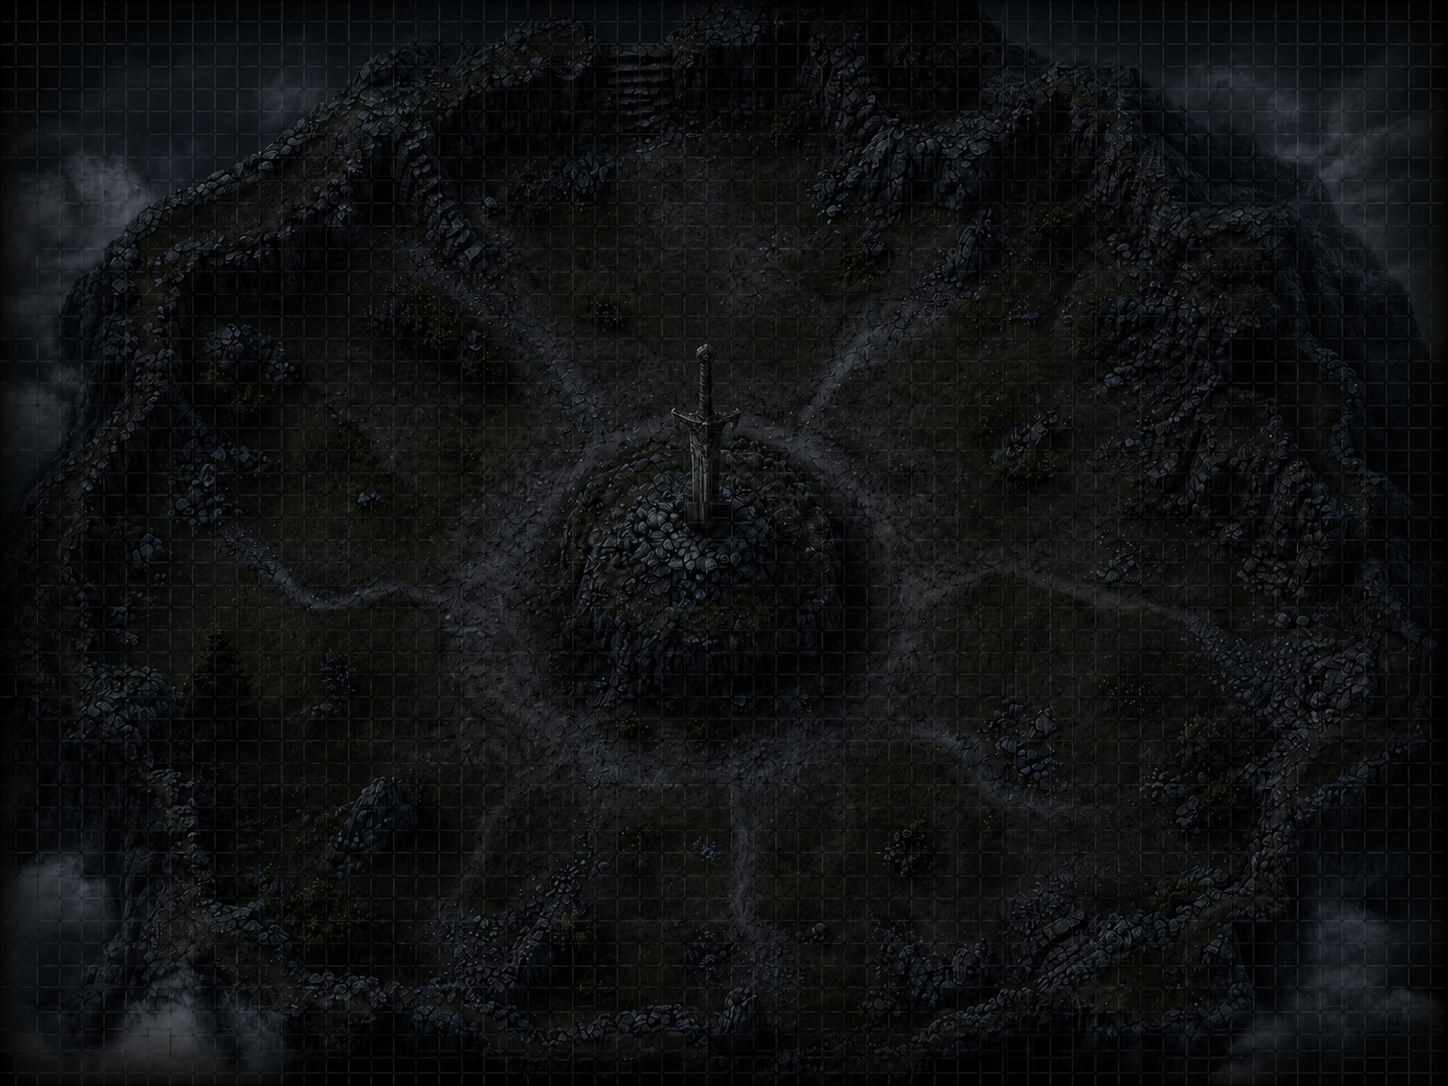
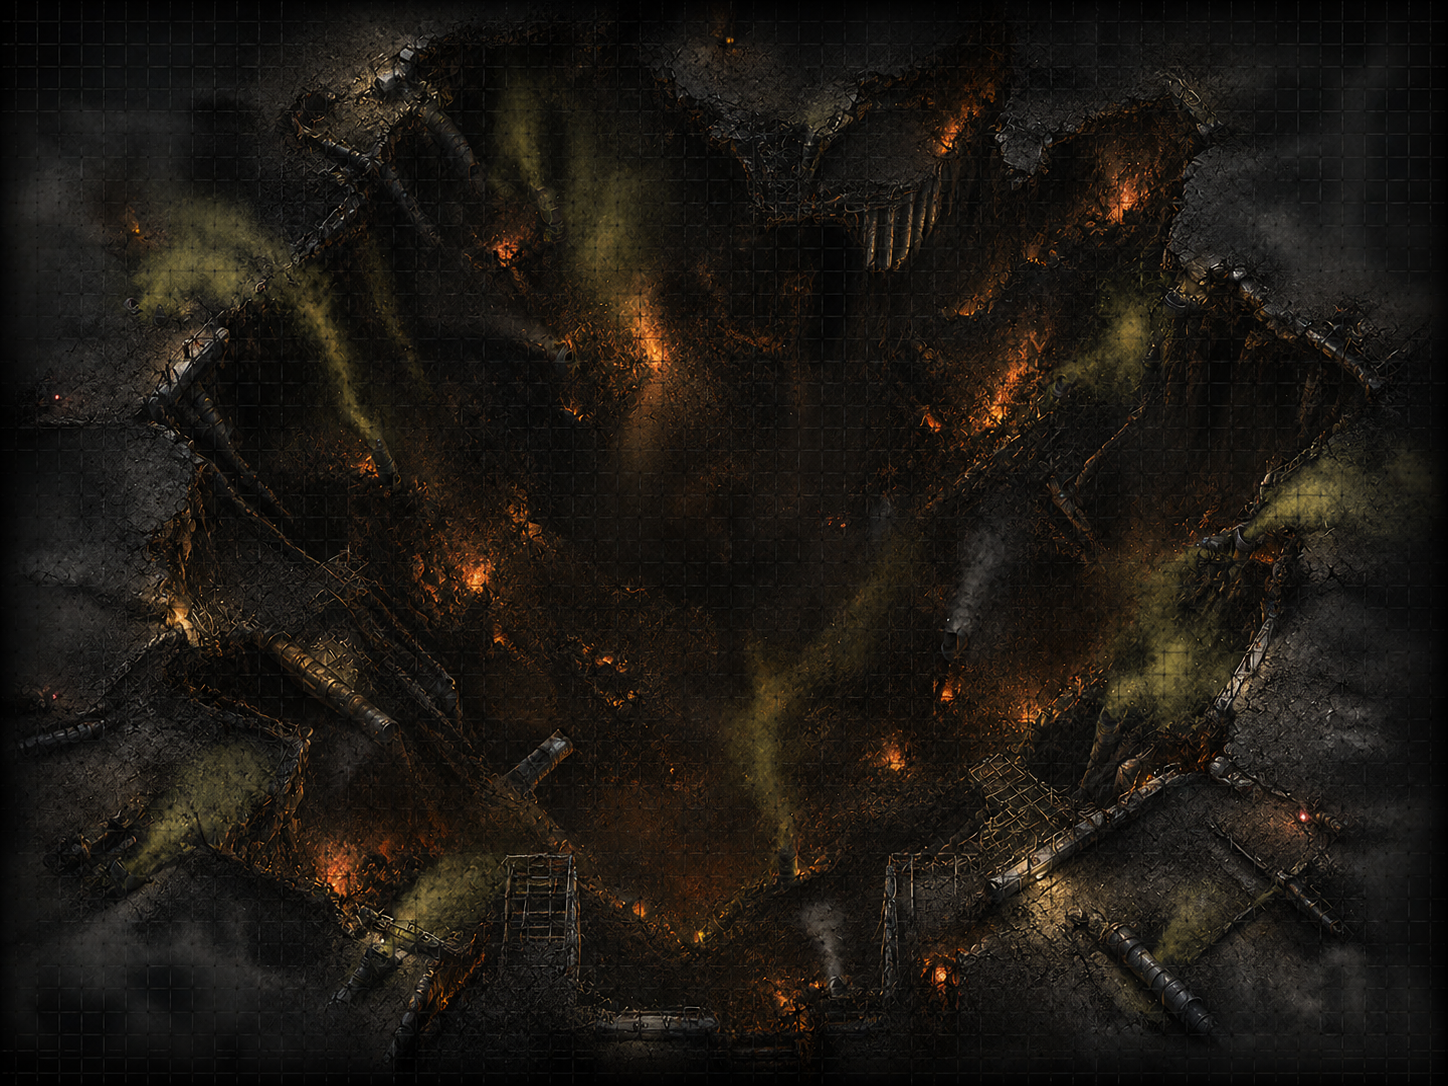
Conclusão de visualização ou não para jogadores

Changed region(s): [[0.0, 0.0, 0.9945, 1.0]]

diff --git a/src/components/menuSession/battle.tsx b/src/components/menuSession/battle.tsx
@@ -2,7 +2,7 @@
 
 import contexto from "@/context/context";
 import Image from "next/image";
-import { useContext, useRef, useState } from "react";
+import { useContext, useEffect, useRef, useState } from "react";
 import type { ElementType, MouseEvent, PointerEvent, WheelEvent } from "react";
 import { IoIosCloseCircleOutline } from "react-icons/io";
 
@@ -35,6 +35,8 @@ import {
   FaShieldAlt,
   FaStore,
   FaLandmark,
+  FaEye,
+  FaEyeSlash,
 } from "react-icons/fa";
 import { updateSession } from "@/firebase/sessions";
 
@@ -353,6 +355,8 @@ export default function Battle() {
   } = useContext(contexto);
 
   const isGameMaster = session?.gameMaster === email;
+  const isBattleVisibleToPlayers =
+    session?.battle?.isVisibleToPlayers === true;
 
   const imageWrapperRef = useRef<HTMLDivElement | null>(null);
   const markerDragStateRef = useRef<MarkerDragState | null>(null);
@@ -406,6 +410,24 @@ export default function Battle() {
   const [draggedMarker, setDraggedMarker] =
     useState<DraggedMarker | null>(null);
   const [draggedToken, setDraggedToken] = useState<DraggedToken | null>(null);
+
+  useEffect(() => {
+    if (!showBattle.show || isGameMaster || isBattleVisibleToPlayers) return;
+
+    setShowBattle({ show: false, data: "" });
+    forceHideSessionMenu();
+    setShowMessage({
+      show: true,
+      text: "O narrador ocultou o modo de combate para os jogadores.",
+    });
+  }, [
+    forceHideSessionMenu,
+    isBattleVisibleToPlayers,
+    isGameMaster,
+    setShowBattle,
+    setShowMessage,
+    showBattle.show,
+  ]);
 
   // const hasMap = Boolean(session?.battle);
   const hasMap = true;
@@ -608,6 +630,32 @@ export default function Battle() {
       battle: {
         ...(session.battle ?? {}),
         tokens: nextTokens,
+      },
+    };
+
+    try {
+      setIsSavingMap(true);
+      setSession(nextSession);
+      await updateSession(nextSession, setShowMessage);
+    } finally {
+      setIsSavingMap(false);
+    }
+  }
+
+  async function updateBattleVisibility(nextVisibility: boolean) {
+    if (!session?.id) {
+      setShowMessage({
+        show: true,
+        text: "Sessao invalida. Nao foi possivel atualizar a visibilidade do mapa.",
+      });
+      return;
+    }
+
+    const nextSession = {
+      ...session,
+      battle: {
+        ...(session.battle ?? {}),
+        isVisibleToPlayers: nextVisibility,
       },
     };
 
@@ -1352,6 +1400,29 @@ export default function Battle() {
           >
             T
           </button>
+
+          {isGameMaster && (
+            <button
+              type="button"
+              disabled={isSavingMap}
+              onClick={() => {
+                clearMeasurementLine();
+                updateBattleVisibility(!isBattleVisibleToPlayers);
+              }}
+              className={`w-9 h-9 rounded border flex items-center justify-center text-lg disabled:cursor-not-allowed disabled:opacity-60 ${
+                isBattleVisibleToPlayers
+                  ? "bg-green-600 text-white border-green-400"
+                  : "bg-zinc-700 text-zinc-300 border-zinc-500"
+              }`}
+              title={
+                isBattleVisibleToPlayers
+                  ? "Jogadores podem ver o modo de combate"
+                  : "Somente o narrador pode ver o modo de combate"
+              }
+            >
+              {isBattleVisibleToPlayers ? <FaEye /> : <FaEyeSlash />}
+            </button>
+          )}
 
           <button
             type="button"

diff --git a/src/components/menuSession/details.tsx b/src/components/menuSession/details.tsx
@@ -40,6 +40,8 @@ export default function Details() {
     const [image, setImage] = useState('');
     const [input, setInput] = useState('');
     const [textArea, setTextArea] = useState(false);
+    const isGameMasterUser = email === session.gameMaster;
+    const isBattleVisibleToPlayers = session?.battle?.isVisibleToPlayers === true;
 
     useEffect(() => {
       setGameMaster(session.gameMaster);
@@ -307,7 +309,7 @@ export default function Details() {
                 </button>
               }
               {
-                gameMaster == '[email redacted]' &&
+                (isGameMasterUser || isBattleVisibleToPlayers) &&
                 <button
                   type="button"
                   className="p-2 mb-2 w-full text-center border-2 border-white text-white bg-black cursor-pointer font-bold transition-colors hover:border-red-500 hover:text-red-500"